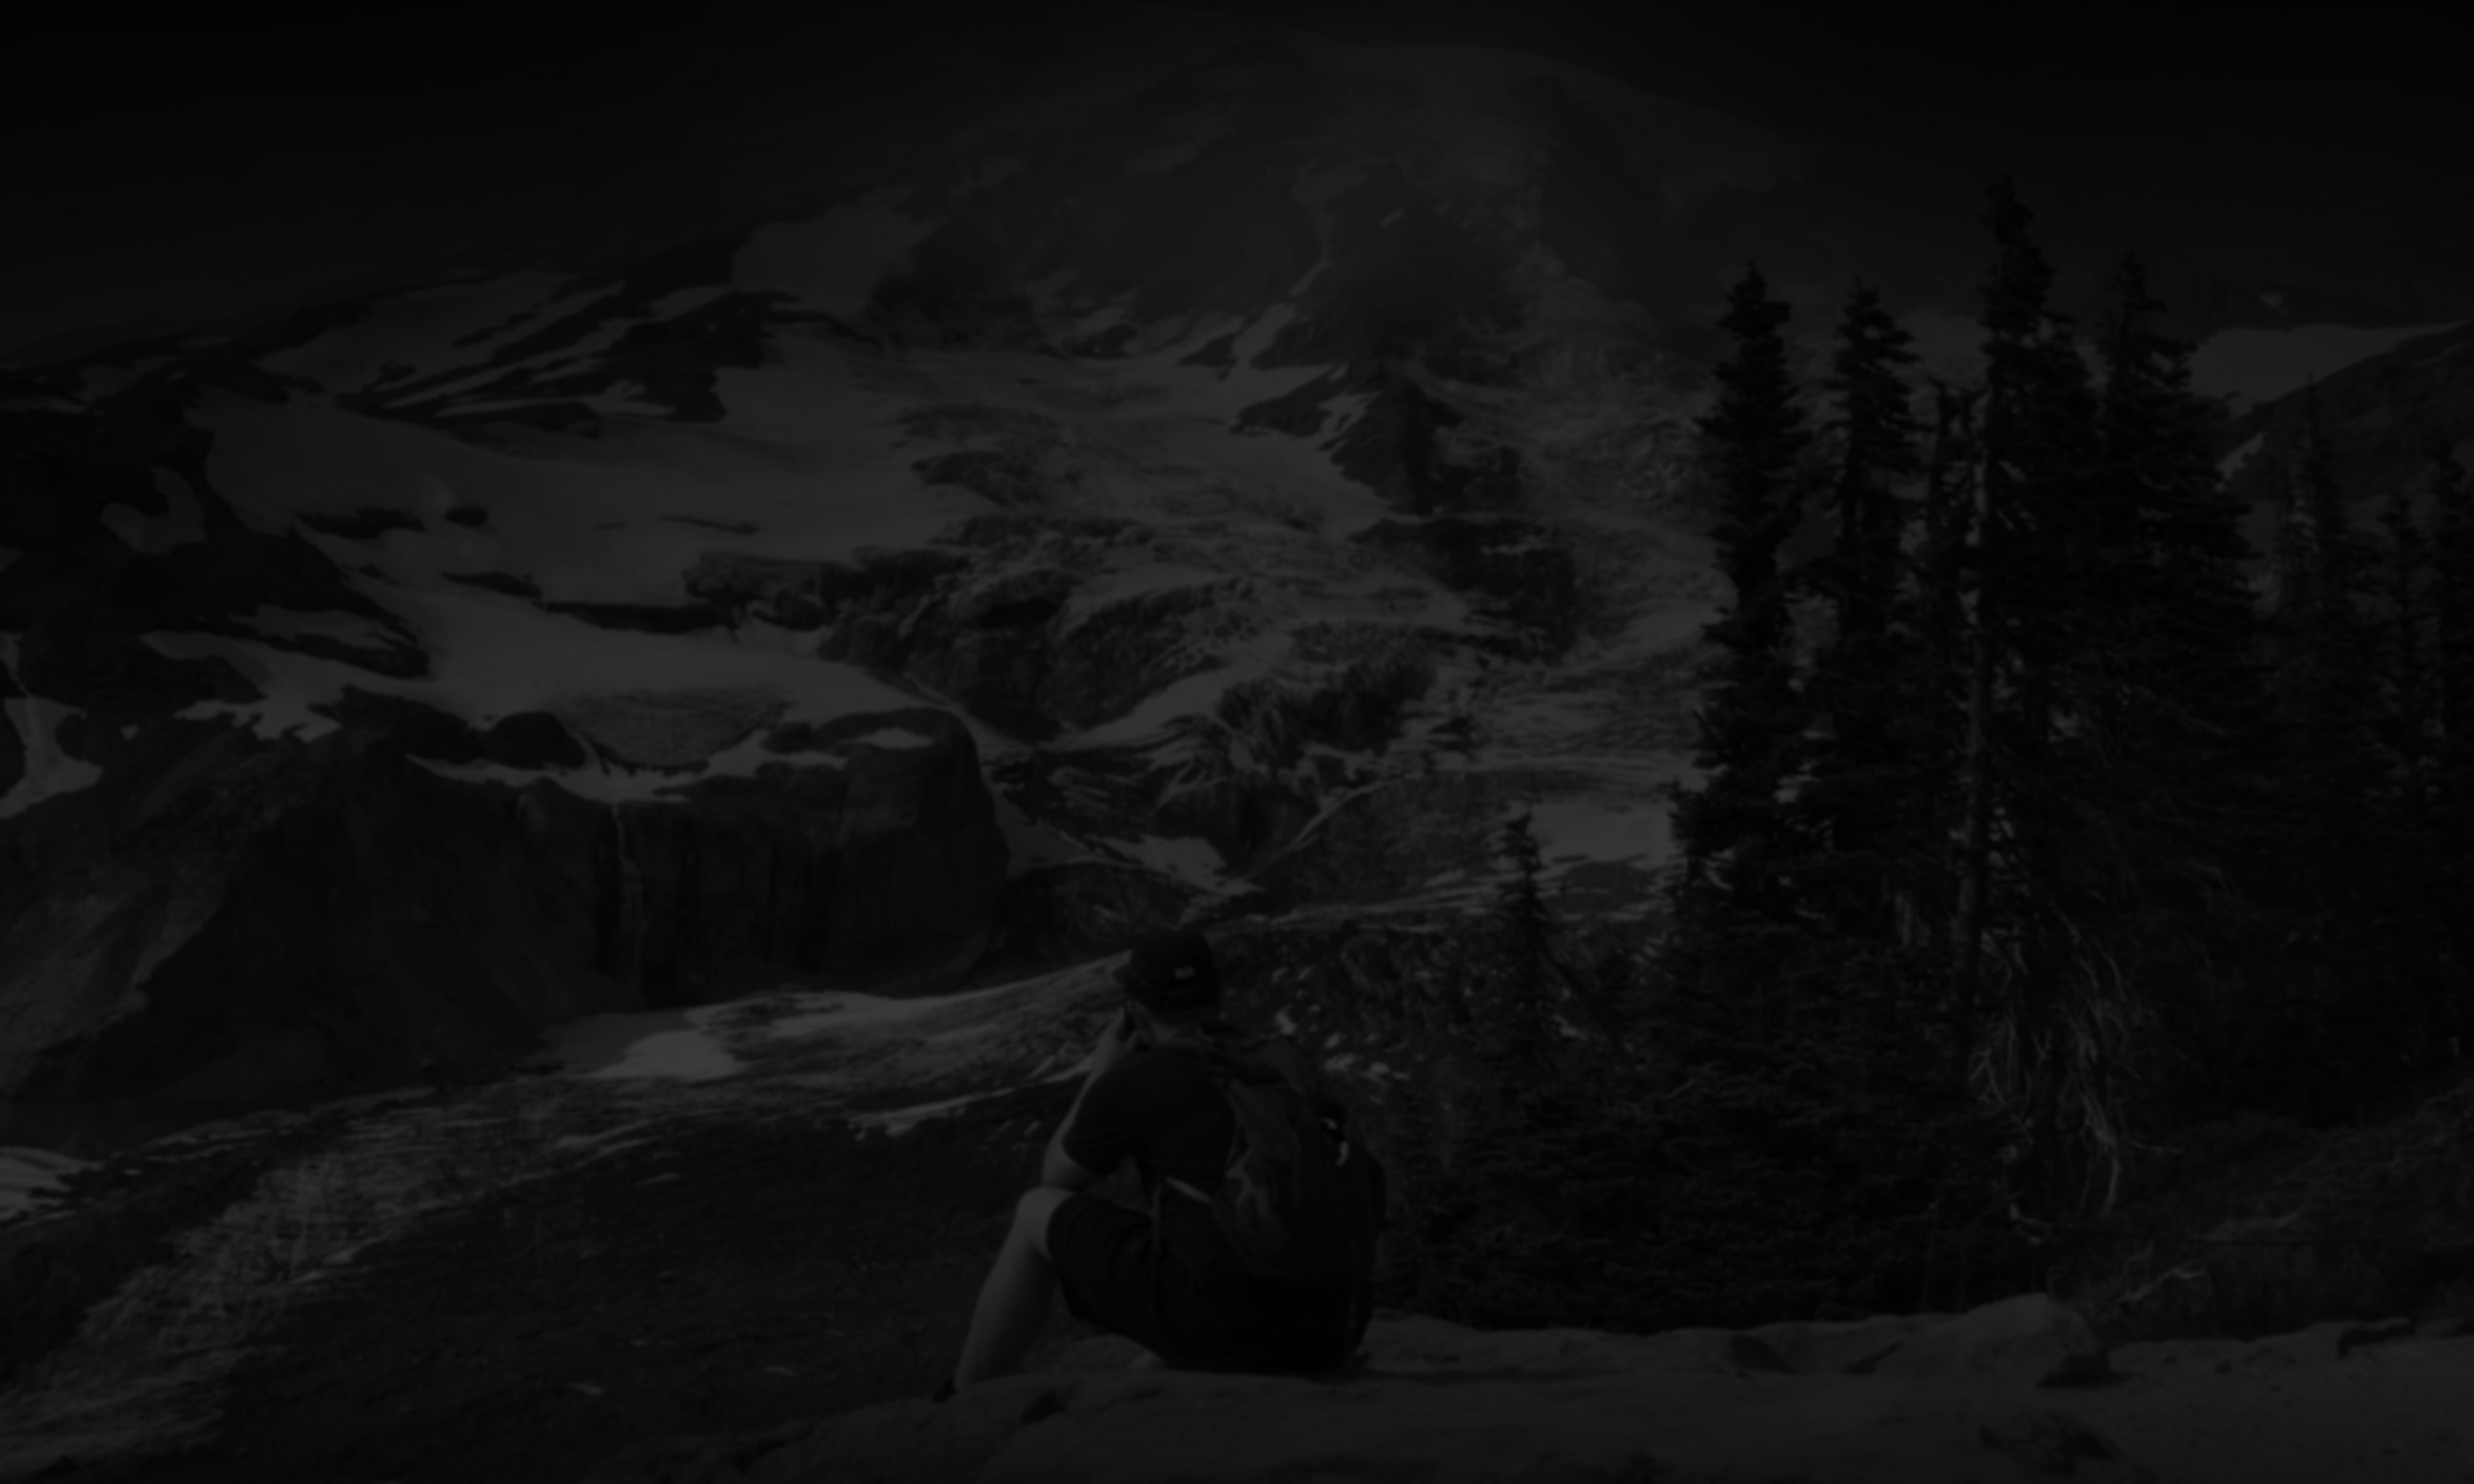
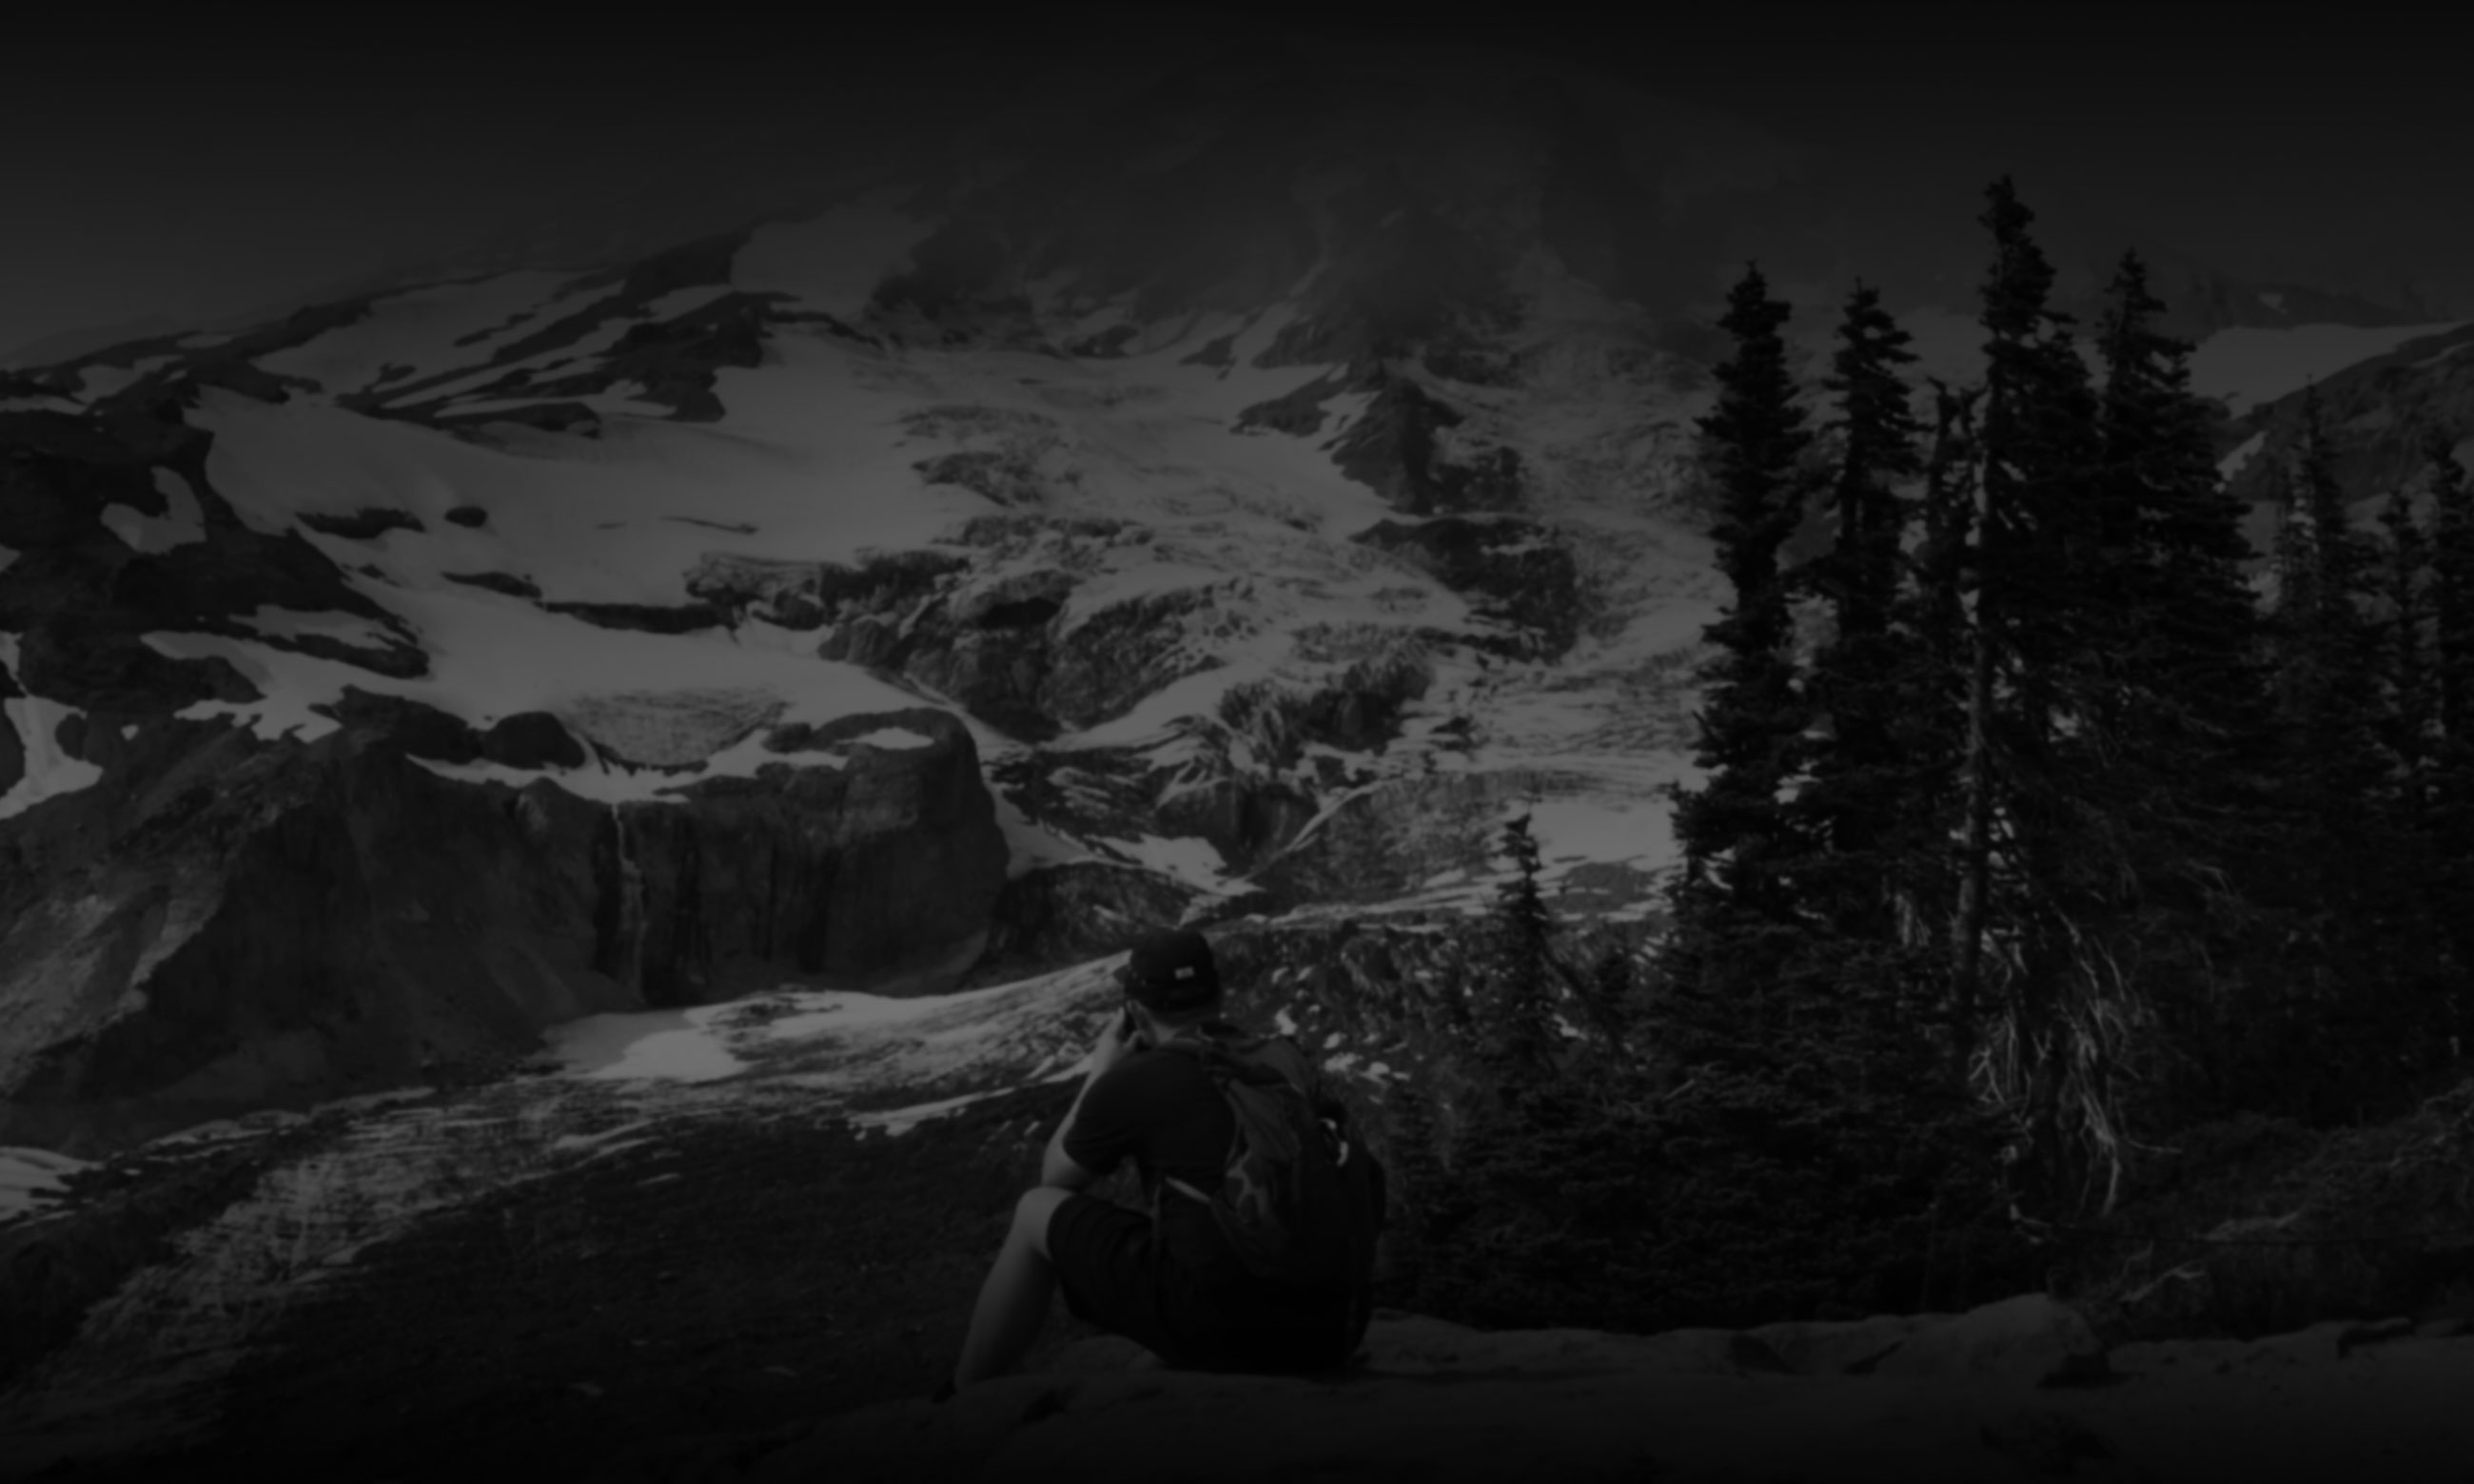
add CNAME

diff --git a/public/404.html b/public/404.html
@@ -1,0 +1,50 @@
+<!DOCTYPE html>
+<html>
+  <head>
+    <meta charset="utf-8">
+    <title>Single Page Apps for GitHub Pages</title>
+    <script type="text/javascript">
+    // Single Page Apps for GitHub Pages
+// https://github.com/rafrex/spa-github-pages
+// Copyright (c) 2016 Rafael Pedicini, licensed under the MIT License
+// ----------------------------------------------------------------------
+// This script takes the current url and converts the path and query
+// string into just a query string, and then redirects the browser
+// to the new url with only a query string and hash fragment,
+// e.g. http://www.foo.tld/one/two?a=b&c=d#qwe, becomes
+// http://www.foo.tld/?p=/one/two&q=a=b~and~c=d#qwe
+// Note: this 404.html file must be at least 512 bytes for it to work
+// with Internet Explorer (it is currently > 512 bytes)
+// If you're creating a Project Pages site and NOT using a custom domain,
+// then set segmentCount to 1 (enterprise users may need to set it to > 1).
+// This way the code will only replace the route part of the path, and not
+// the real directory in which the app resides, for example:
+// https://username.github.io/repo-name/one/two?a=b&c=d#qwe becomes
+// https://username.github.io/repo-name/?p=/one/two&q=a=b~and~c=d#qwe
+// Otherwise, leave segmentCount as 0.
+var segmentCount = 1;
+var l = window.location;
+l.replace(
+	l.protocol +
+		'//' +
+		l.hostname +
+		(l.port ? ':' + l.port : '') +
+		l.pathname
+			.split('/')
+			.slice(0, 1 + segmentCount)
+			.join('/') +
+		'/?p=/' +
+		l.pathname
+			.slice(1)
+			.split('/')
+			.slice(segmentCount)
+			.join('/')
+			.replace(/&/g, '~and~') +
+		(l.search ? '&q=' + l.search.slice(1).replace(/&/g, '~and~') : '') +
+		l.hash
+);
+</script>
+  </head>
+  <body>
+  </body>
+</html>

diff --git a/src/components/Landing.js b/src/components/Landing.js
@@ -14,7 +14,7 @@ class Landing extends Component {
 						<figure>
 							<Link to={'/about'} activeClassName="active">
 								<img
-									src={require('../images/about-1.svg')}
+									src={require('../images/about.svg')}
 									alt="about"
 									width="70%"
 								/>
@@ -26,7 +26,7 @@ class Landing extends Component {
 						<figure>
 							<Link to={'/projects'} activeClassName="active">
 								<img
-									src={require('../images/projects-1.svg')}
+									src={require('../images/projects.svg')}
 									alt="projects"
 									width="70%"
 								/>
@@ -38,7 +38,7 @@ class Landing extends Component {
 						<figure>
 							<Link to={'/skills'} activeClassName="active">
 								<img
-									src={require('../images/skills-1.svg')}
+									src={require('../images/skills.svg')}
 									alt="skills"
 									width="70%"
 								/>
@@ -50,7 +50,7 @@ class Landing extends Component {
 						<figure>
 							<Link to={'/resume'} activeClassName="active">
 								<img
-									src={require('../images/resume-1.svg')}
+									src={require('../images/resume.svg')}
 									alt="resume"
 									width="70%"
 								/>

diff --git a/src/components/Header.js b/src/components/Header.js
@@ -7,12 +7,8 @@ class Header extends Component {
 			<div>
 				<nav>
 					<div className="nav-wrapper">
-						<Link
-							to={'/carlofrancisco'}
-							className="left-brand-log"
-							style={{ margin: '10px' }}
-						>
-							Carlo Francisco
+						<Link to={'/carlofrancisco'} className="left-brand-logo">
+							<img src={require('../images/logo.svg')} alt="about" width="3%" />
 						</Link>
 						<Link
 							to={'/carlofrancisco'}
@@ -20,6 +16,8 @@ class Header extends Component {
 							className="sidenav-trigger"
 						>
 							<i className="material-icons">menu</i>
+							<img src={require('../images/logo.svg')} alt="about" width="3%" />
+
 						</Link>
 						<ul className="right hide-on-med-and-down">
 							<li>

diff --git a/src/App.css b/src/App.css
@@ -15,7 +15,7 @@ body {
 }
 
 .nav-wrapper {
-	background-color: black;
+background-color: rgba(0,0,0,0);
 }
 
 .landing {
@@ -26,13 +26,17 @@ body {
 	width: 5;
 }
 
+.left-brand-logo {
+	margin-left: 10px;
+	margin-top: 50px;
+}
+
 .banner-text {
 	text-align: center;
 	letter-spacing: 8px;
 	padding-top: 5%;
 	padding-bottom: 10%;
 	color: white;
-
 }
 
 h1 {
@@ -63,6 +67,6 @@ h1 {
 	font-size: 2em;
 }
 
-.active{
-	color:green;
+.active {
+	color: green;
 }

diff --git a/public/index.html b/public/index.html
@@ -21,7 +21,10 @@
       work correctly both with client-side routing and a non-root public URL.
       Learn how to configure a non-root public URL by running `npm run build`.
     -->
-    <title>React App</title>
+    <title>Carlo Francisco</title>
+
+
+   </script>
   </head>
   <body>
     <noscript>
